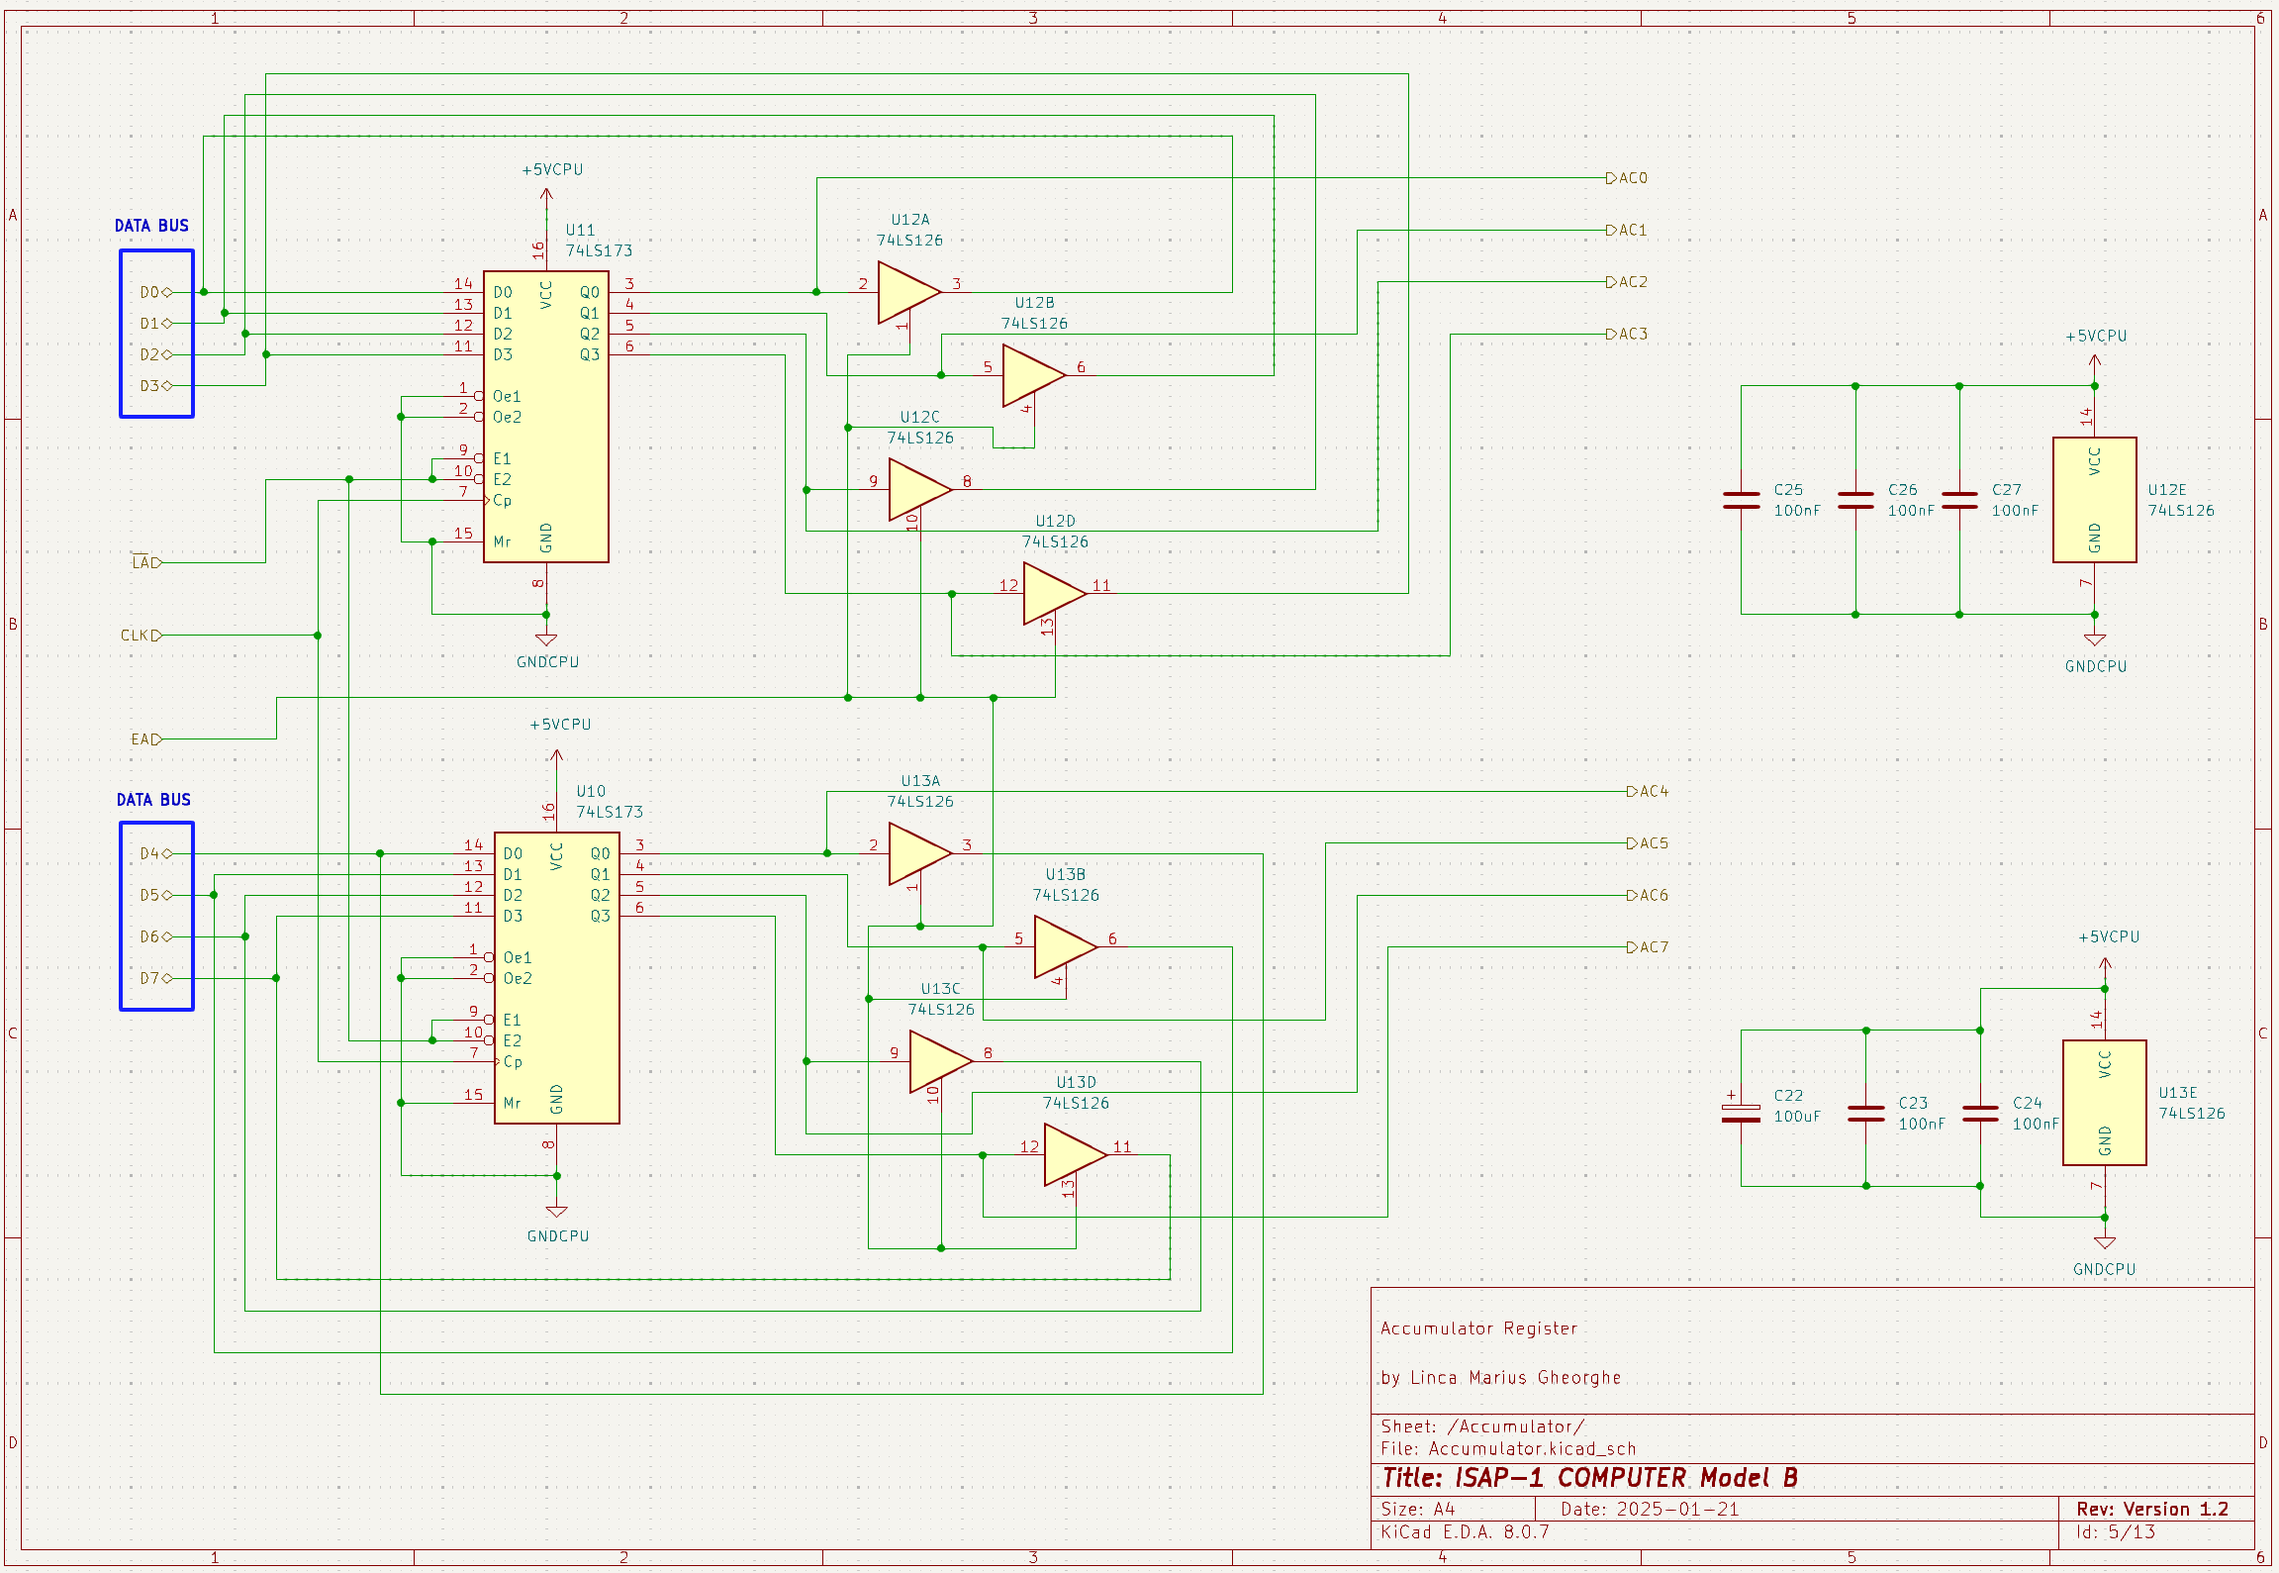
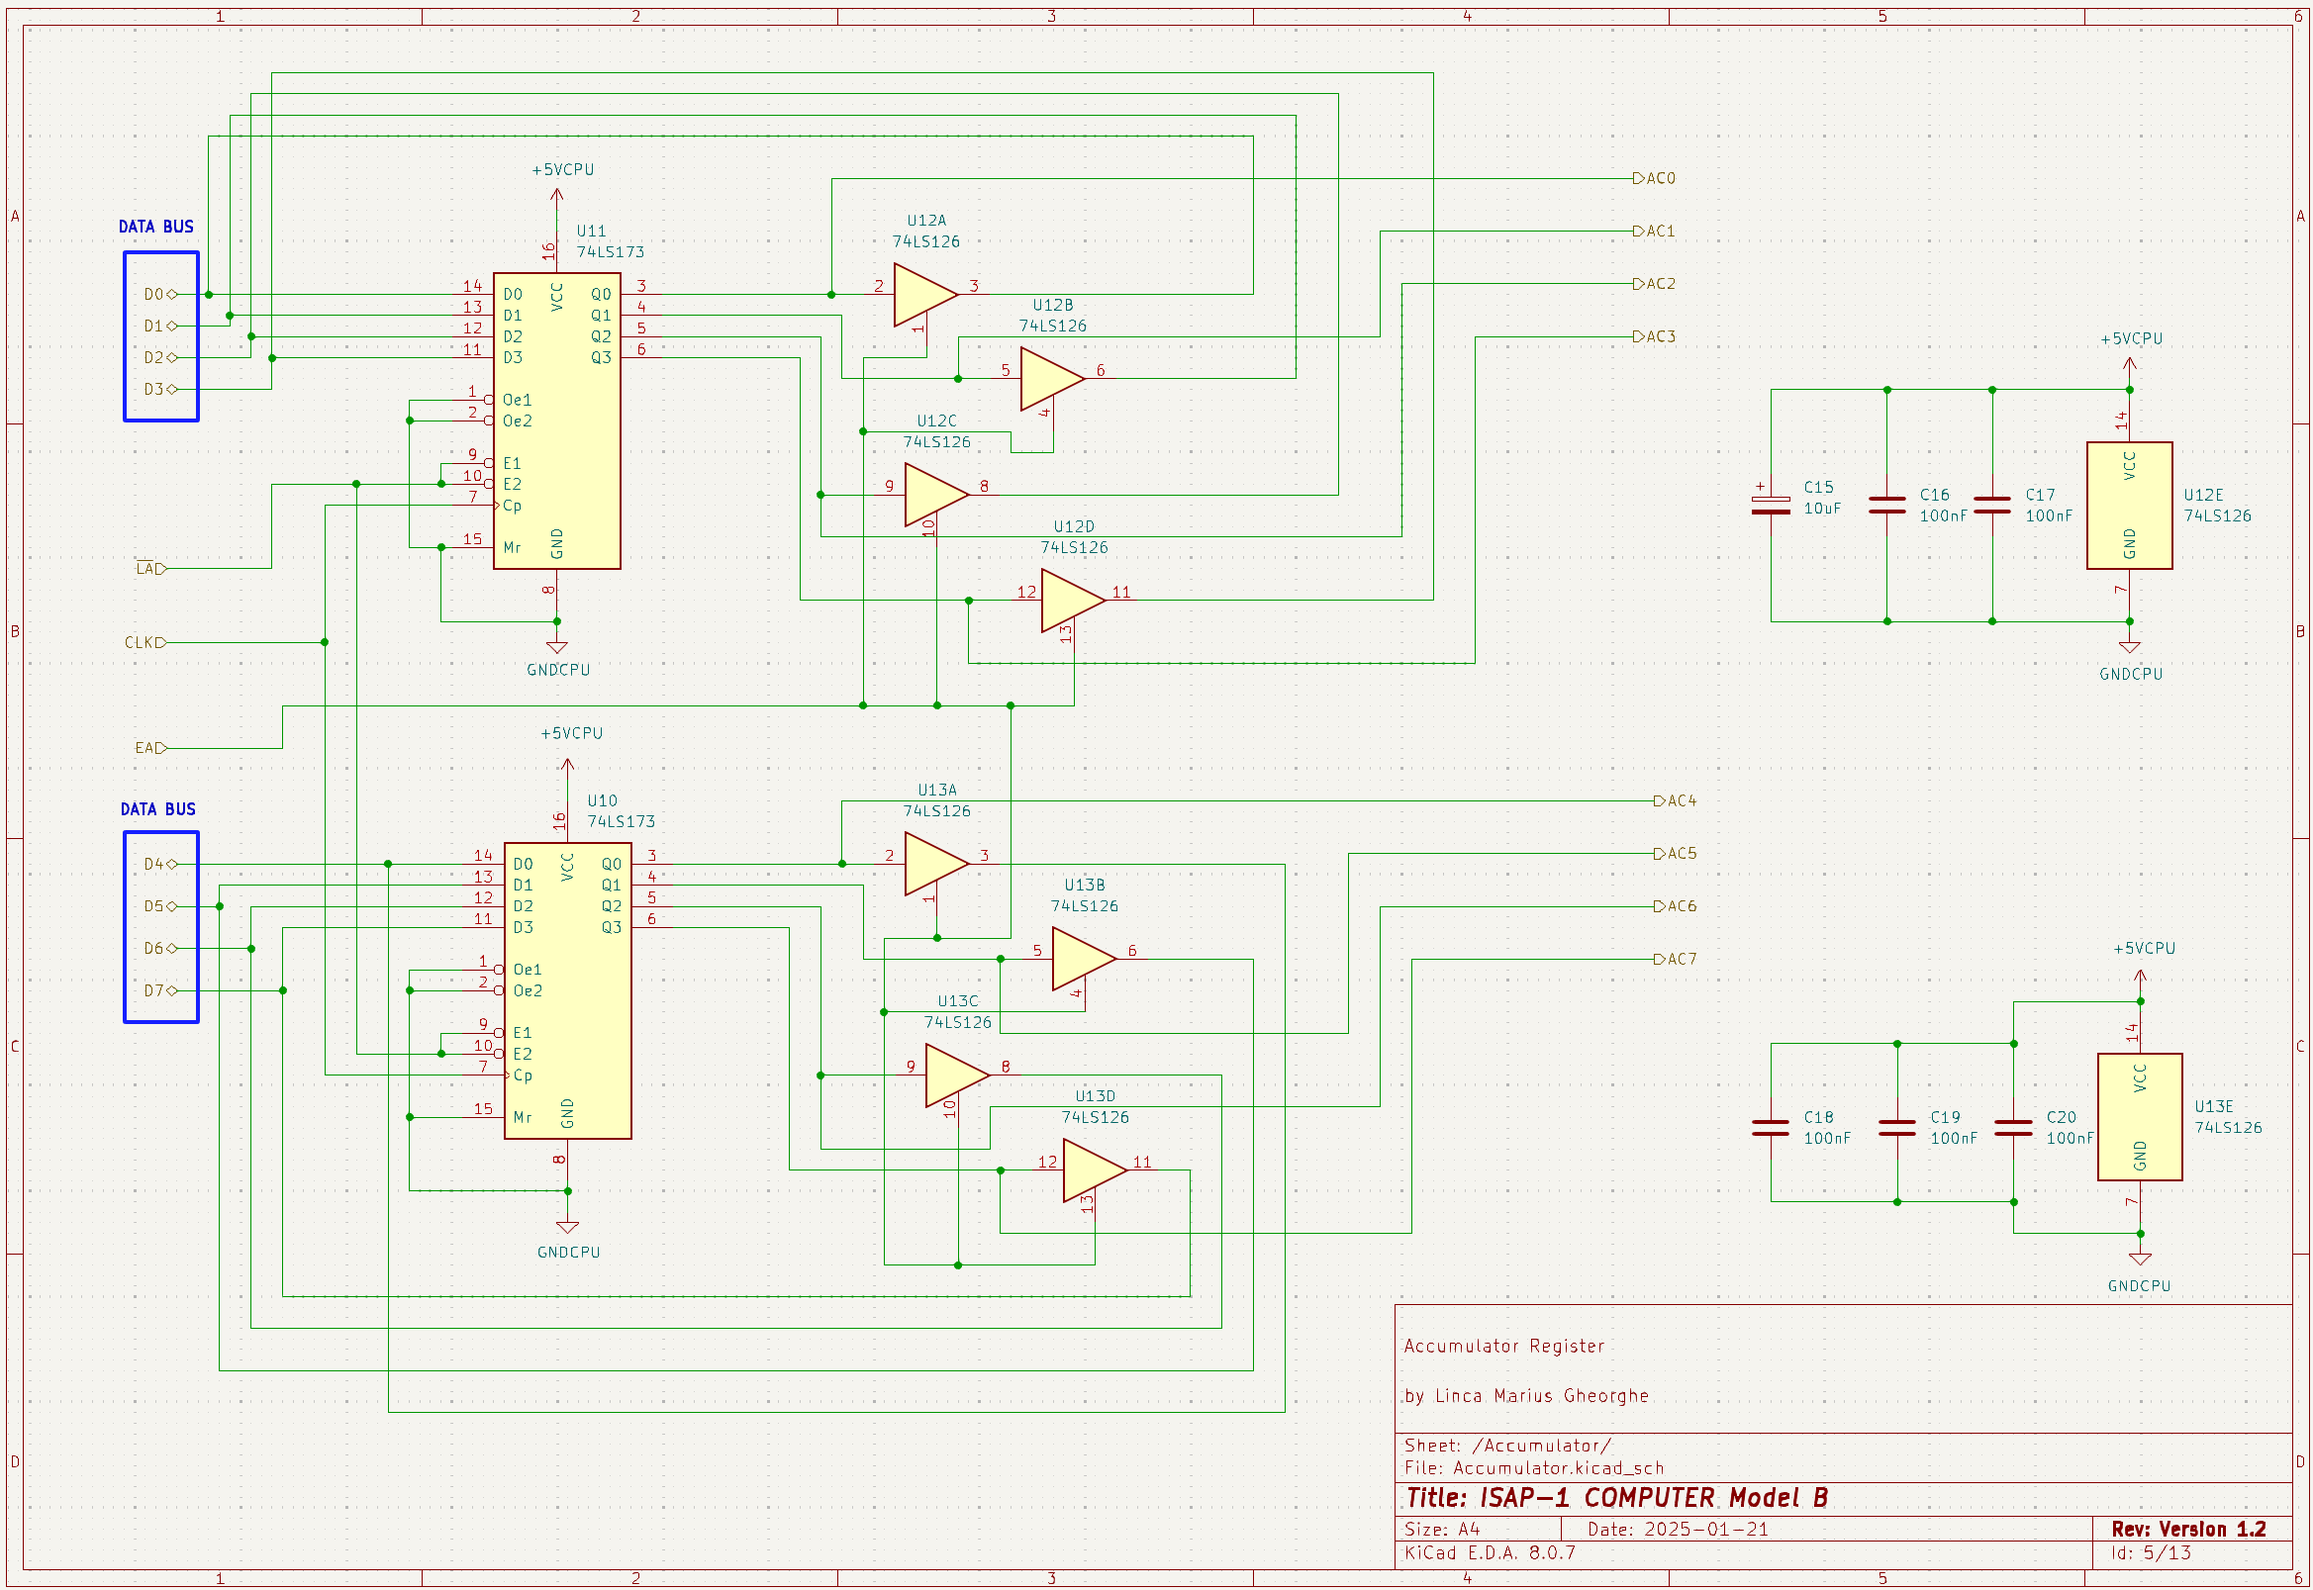
modified:   Pictures/Figure32.png

diff --git a/README.md b/README.md
@@ -436,7 +436,7 @@ The new schematic for the Instruction Register is:
 ### Accumulator Register
 The schematic and functionality are unchanged from the original. I added decoupling capacitors with a value of 100 nF for each chip used.
 
-I also added a 100 uF filter capacitor to filter out low frequency noise that may appear on the power supply circuit.
+I also added a 10 uF filter capacitor to filter out low frequency noise that may appear on the power supply circuit.
 
 The new schematic for the Accumulator Register is:
 
